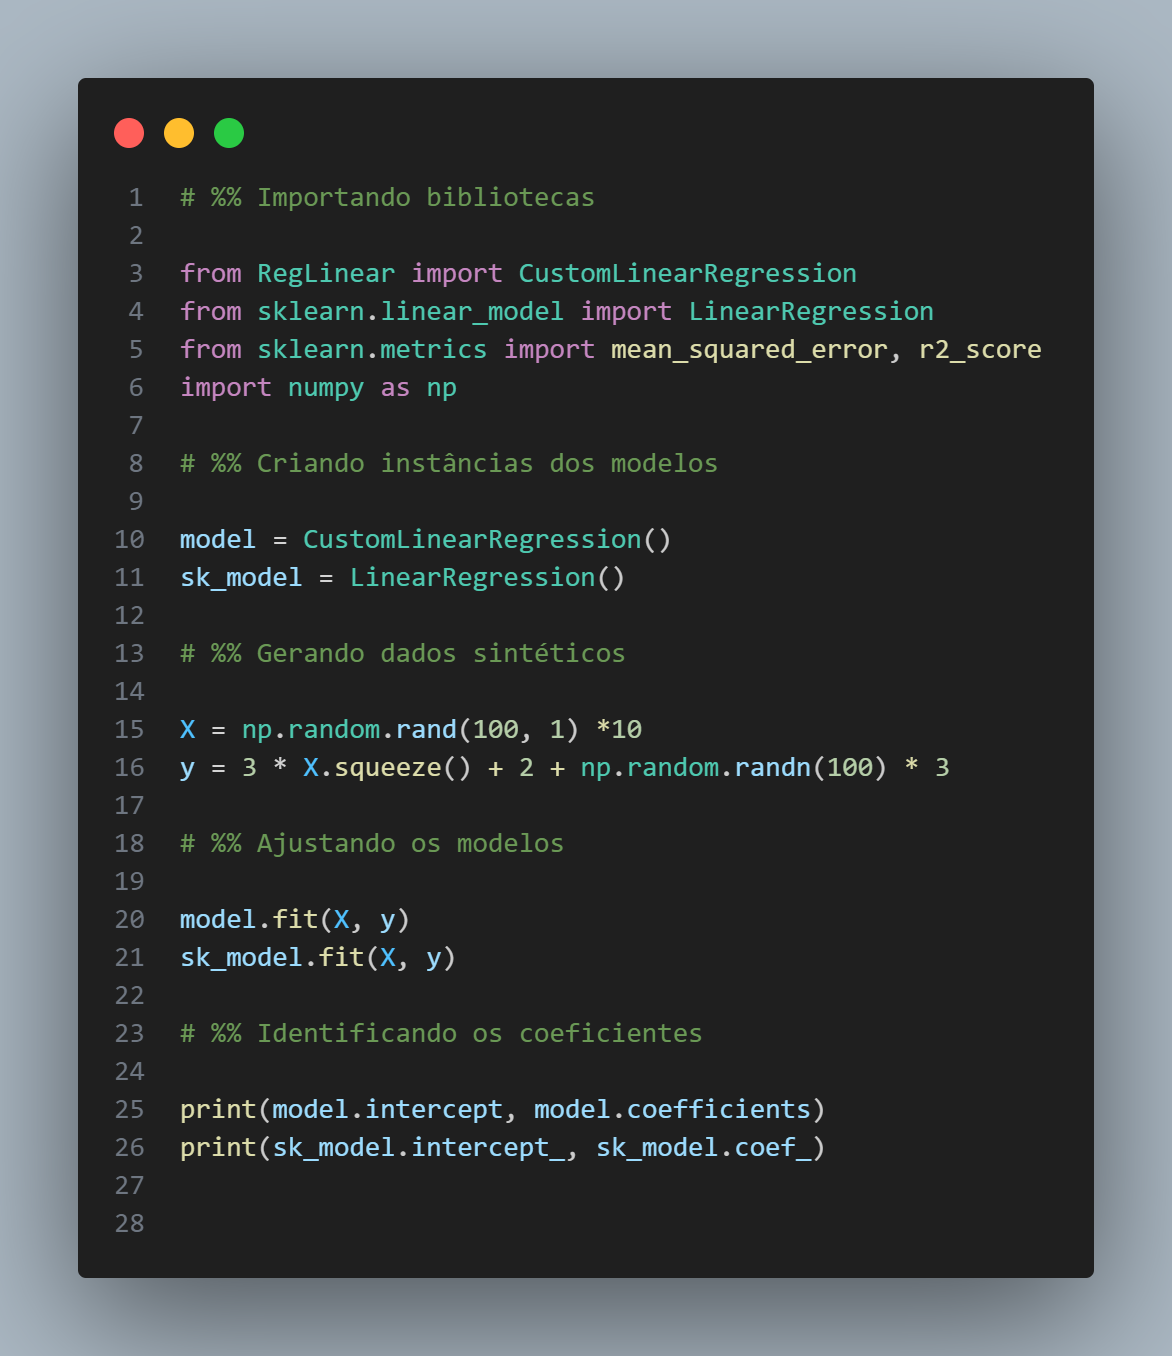
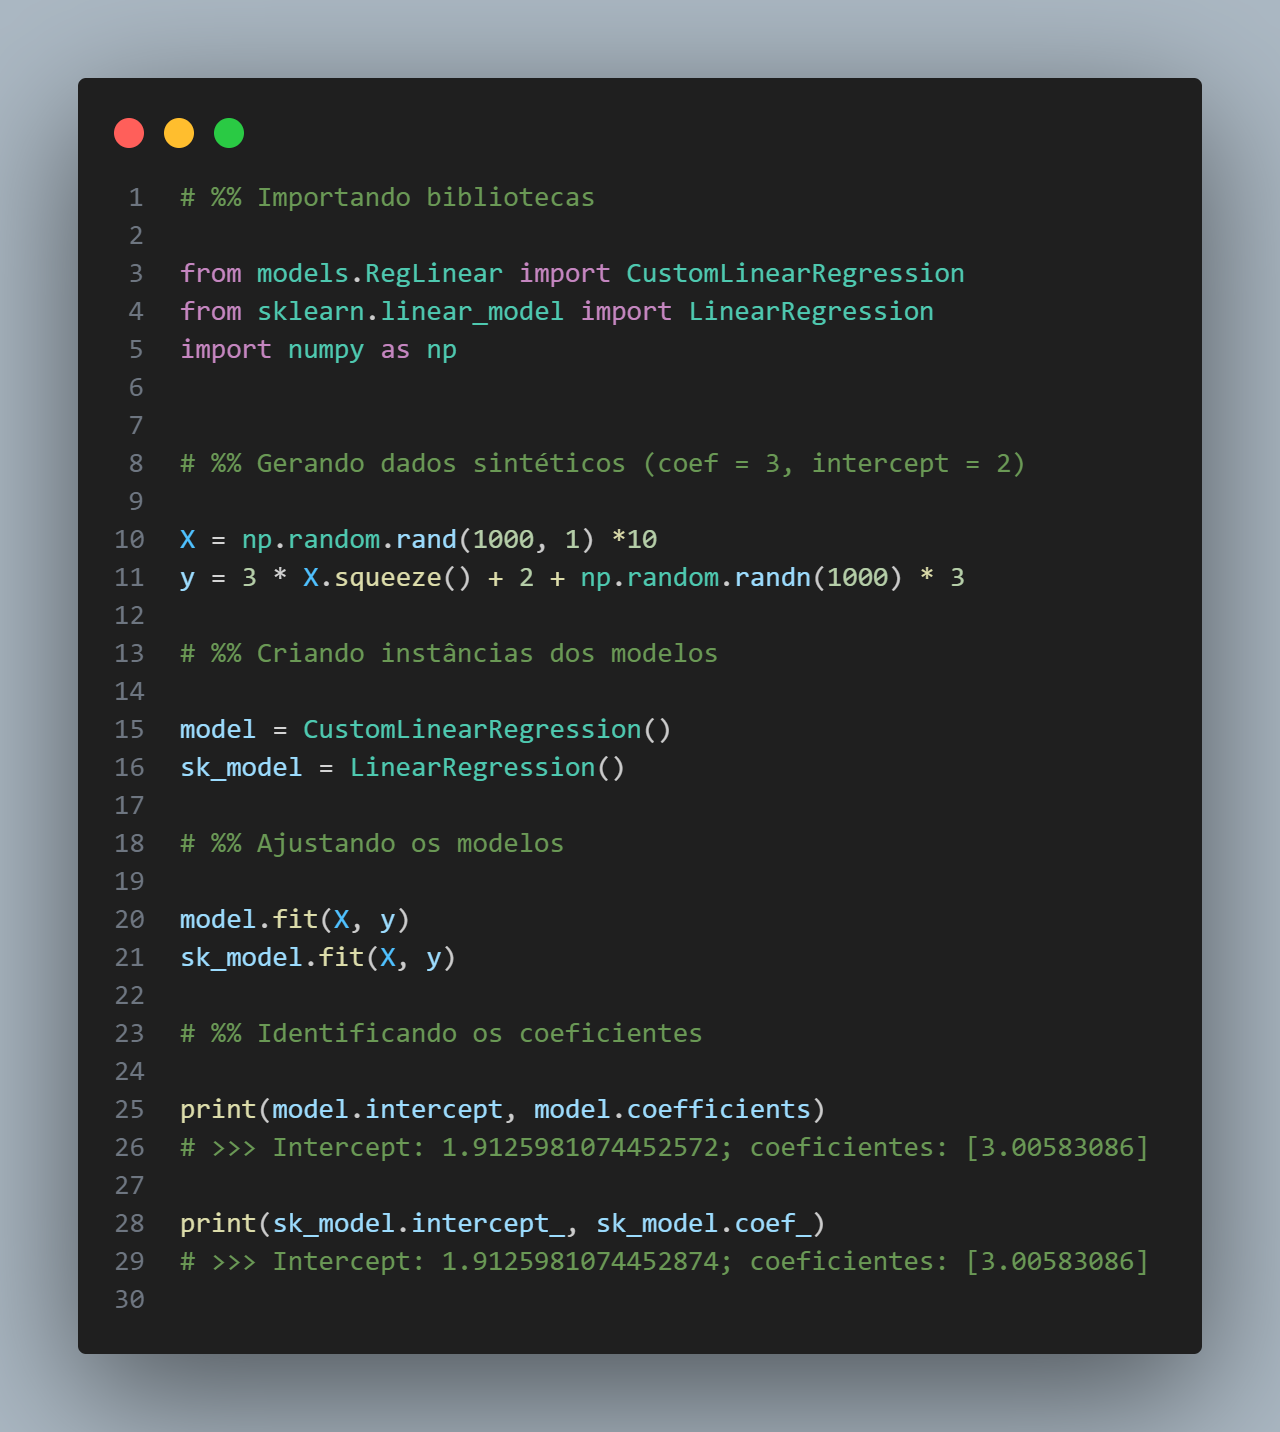
style: reorganização do script de regressão linear

diff --git a/src/main_linear_reg.py b/src/main_linear_reg.py
@@ -10,10 +10,10 @@ import numpy as np
 model = CustomLinearRegression()
 sk_model = LinearRegression()
 
-# %% Gerando dados sintéticos
+# %% Gerando dados sintéticos (coef = 3, intercept = 2)
 
-X = np.random.rand(100, 1) *10
-y = 3 * X.squeeze() + 2 + np.random.randn(100) * 3
+X = np.random.rand(1000, 1) *10
+y = 3 * X.squeeze() + 2 + np.random.randn(1000) * 3
 
 # %% Ajustando os modelos
 
@@ -23,5 +23,7 @@ sk_model.fit(X, y)
 # %% Identificando os coeficientes
 
 print(model.intercept, model.coefficients)
-print(sk_model.intercept_, sk_model.coef_)
+# >>> Intercept: 1.9125981074452572; coeficientes: [3.00583086]
 
+print(sk_model.intercept_, sk_model.coef_)
+# >>> Intercept: 1.9125981074452874; coeficientes: [3.00583086]

diff --git a/README.md b/README.md
@@ -9,6 +9,7 @@ Este repositório tem como objetivo implementar manualmente os principais algori
 - Regressão linear ✔
 - KNN
 - SVM
+- Árvore de decisão
 - Random Forest
 - Gradient Boosting
 
@@ -17,6 +18,7 @@ Este repositório tem como objetivo implementar manualmente os principais algori
 - Regressão logística ✔
 - KNN
 - SVM
+- Árvore de decisão
 - Random Forest
 - Gradient Boosting
 
